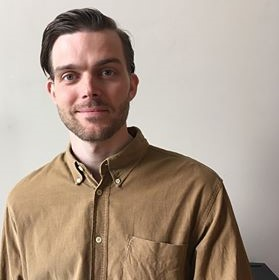
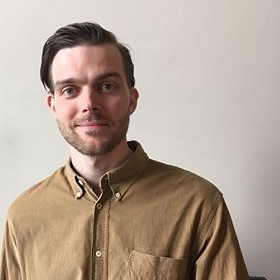
jakob

Changed region(s): [[0.0, 0.0286, 1.0, 1.0]]

diff --git a/index.html b/index.html
@@ -93,7 +93,7 @@
   <div class="row" id="memberpart">
 
     <div class="col-sm-4">
-      <img src="jakob11.jpg" alt="Jakob" class="picmember">      
+      <img src="jakob1.jpg" alt="Jakob" class="picmember">      
       <div id="descmember">
         <h4>
           JAKOB KLANG
